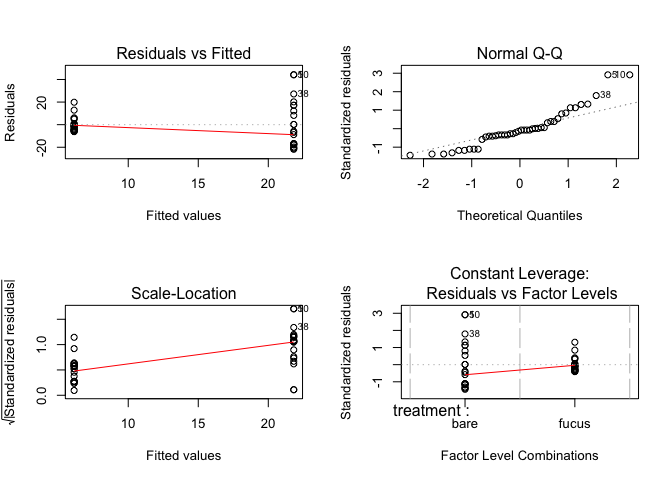
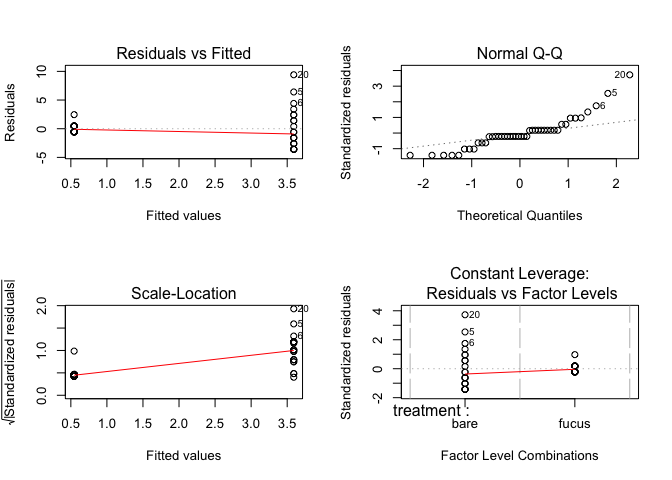
update guthub output of r markdown doc

diff --git a/scripts/intro_to_r.md b/scripts/intro_to_r.md
@@ -1,7 +1,7 @@
 intro\_to\_r
 ================
 Sandra Emry
-2017-01-13
+2017-01-15
 
 \#\# Introduction to r
 ----------------------
@@ -236,19 +236,28 @@ str(habitat_pref)
 # view entire dataset
 View(habitat_pref)
 
-# fix variable names - Fucus or fucus
+# how many unique cases of the treatment variable?
 unique(habitat_pref$treatment)
 ```
 
     ## [1] "Fucus\n" "Fucus"   "bare"    "fucus"   "Bare"
 
 ``` r
+# load stringr package
 library(stringr)
 
-habitat_pref$treatment[str_detect(habitat_pref$treatment, "Fucus\n")] <- "fucus"
-habitat_pref$treatment[str_detect(habitat_pref$treatment, "Fucus")] <- "fucus"
-habitat_pref$treatment[str_detect(habitat_pref$treatment, "Bare")] <- "bare"
+# fix variable names
+habitat_pref <- habitat_pref %>% 
+  mutate(treatment = str_replace(treatment, "(Fucus\n|Fucus|fucus\n)", "fucus")) %>% 
+  mutate(treatment = str_replace(treatment, "Bare", "bare"))
 
+# how many unique cases of the treatment variable?
+unique(habitat_pref$treatment)
+```
+
+    ## [1] "fucus" "bare"
+
+``` r
 # create variable for total grazers
 habitat_pref <- habitat_pref %>% 
   mutate(total_grazers = (snails + limpets))
@@ -270,51 +279,100 @@ is.factor(habitat_pref$treatment)
     ## [1] TRUE
 
 ``` r
-# fit a linear model to data
-model1<-lm(total_grazers ~ treatment, data = habitat_pref)
+# fit a linear model to data for limpets
+model1a <- lm(limpets ~ treatment, data = habitat_pref)
 
 # parameter estimates and model fit
-summary(model1)    
+summary(model1a)    
 ```
 
     ## 
     ## Call:
-    ## lm(formula = total_grazers ~ treatment, data = habitat_pref)
+    ## lm(formula = limpets ~ treatment, data = habitat_pref)
     ## 
     ## Residuals:
     ##     Min      1Q  Median      3Q     Max 
-    ## -21.818  -6.307  -1.636   5.864  44.182 
+    ## -3.5909 -0.8409 -0.5455  0.4545  9.4091 
     ## 
     ## Coefficients:
     ##                Estimate Std. Error t value Pr(>|t|)    
-    ## (Intercept)      21.818      3.310   6.592 5.59e-08 ***
-    ## treatmentfucus  -15.682      4.681  -3.350  0.00171 ** 
+    ## (Intercept)      3.5909     0.5512   6.514 7.23e-08 ***
+    ## treatmentfucus  -3.0455     0.7796  -3.907 0.000334 ***
     ## ---
     ## Signif. codes:  0 '***' 0.001 '**' 0.01 '*' 0.05 '.' 0.1 ' ' 1
     ## 
-    ## Residual standard error: 15.52 on 42 degrees of freedom
-    ## Multiple R-squared:  0.2109, Adjusted R-squared:  0.1921 
-    ## F-statistic: 11.22 on 1 and 42 DF,  p-value: 0.001715
+    ## Residual standard error: 2.586 on 42 degrees of freedom
+    ## Multiple R-squared:  0.2665, Adjusted R-squared:  0.2491 
+    ## F-statistic: 15.26 on 1 and 42 DF,  p-value: 0.0003342
 
 ``` r
 # check assumptions of model: plots of residuals, normal quantiles, leverage
 par(mfrow = c(2,2))
-plot(model1)
+plot(model1a)
 ```
 
 ![](intro_to_r_files/figure-markdown_github/unnamed-chunk-3-1.png)
 
 ``` r
 # ANOVA table
-anova(model1)
+anova(model1a)
 ```
 
     ## Analysis of Variance Table
     ## 
-    ## Response: total_grazers
-    ##           Df  Sum Sq Mean Sq F value   Pr(>F)   
-    ## treatment  1  2705.1  2705.1  11.225 0.001715 **
-    ## Residuals 42 10121.9   241.0                    
+    ## Response: limpets
+    ##           Df Sum Sq Mean Sq F value    Pr(>F)    
+    ## treatment  1 102.02 102.023  15.261 0.0003342 ***
+    ## Residuals 42 280.77   6.685                      
+    ## ---
+    ## Signif. codes:  0 '***' 0.001 '**' 0.01 '*' 0.05 '.' 0.1 ' ' 1
+
+``` r
+# fit a linear model to data for snails
+model1b <- lm(snails ~ treatment, data = habitat_pref)
+
+# parameter estimates and model fit
+summary(model1b)    
+```
+
+    ## 
+    ## Call:
+    ## lm(formula = snails ~ treatment, data = habitat_pref)
+    ## 
+    ## Residuals:
+    ##     Min      1Q  Median      3Q     Max 
+    ## -18.227  -7.727  -2.591   4.909  47.773 
+    ## 
+    ## Coefficients:
+    ##                Estimate Std. Error t value Pr(>|t|)    
+    ## (Intercept)      18.227      3.167   5.755 8.94e-07 ***
+    ## treatmentfucus  -12.636      4.479  -2.821  0.00728 ** 
+    ## ---
+    ## Signif. codes:  0 '***' 0.001 '**' 0.01 '*' 0.05 '.' 0.1 ' ' 1
+    ## 
+    ## Residual standard error: 14.86 on 42 degrees of freedom
+    ## Multiple R-squared:  0.1593, Adjusted R-squared:  0.1393 
+    ## F-statistic: 7.959 on 1 and 42 DF,  p-value: 0.007277
+
+``` r
+# check assumptions of model: plots of residuals, normal quantiles, leverage
+par(mfrow = c(2,2))
+plot(model1b)
+```
+
+![](intro_to_r_files/figure-markdown_github/unnamed-chunk-3-2.png)
+
+``` r
+# ANOVA table
+anova(model1b)
+```
+
+    ## Analysis of Variance Table
+    ## 
+    ## Response: snails
+    ##           Df Sum Sq Mean Sq F value   Pr(>F)   
+    ## treatment  1 1756.5 1756.45  7.9587 0.007277 **
+    ## Residuals 42 9269.2  220.69                    
     ## ---
     ## Signif. codes:  0 '***' 0.001 '**' 0.01 '*' 0.05 '.' 0.1 ' ' 1
 
@@ -534,18 +592,20 @@ View(whelks)
 model4 <- lm(whelk_length ~ distance, data = whelks)
 
 # check assumptions
+par(mfrow = c(2,2))
 plot(model4)
 ```
 
-![](intro_to_r_files/figure-markdown_github/unnamed-chunk-6-1.png)![](intro_to_r_files/figure-markdown_github/unnamed-chunk-6-2.png)![](intro_to_r_files/figure-markdown_github/unnamed-chunk-6-3.png)![](intro_to_r_files/figure-markdown_github/unnamed-chunk-6-4.png)
+![](intro_to_r_files/figure-markdown_github/unnamed-chunk-6-1.png)
 
 ``` r
 # add a regression line to a scatter plot
+par(mfrow = c(1,1))
 plot(whelk_length ~ distance, data = whelks)
 abline(model4)
 ```
 
-![](intro_to_r_files/figure-markdown_github/unnamed-chunk-6-5.png)
+![](intro_to_r_files/figure-markdown_github/unnamed-chunk-6-2.png)
 
 ``` r
 # how to deal with unequal variance 
